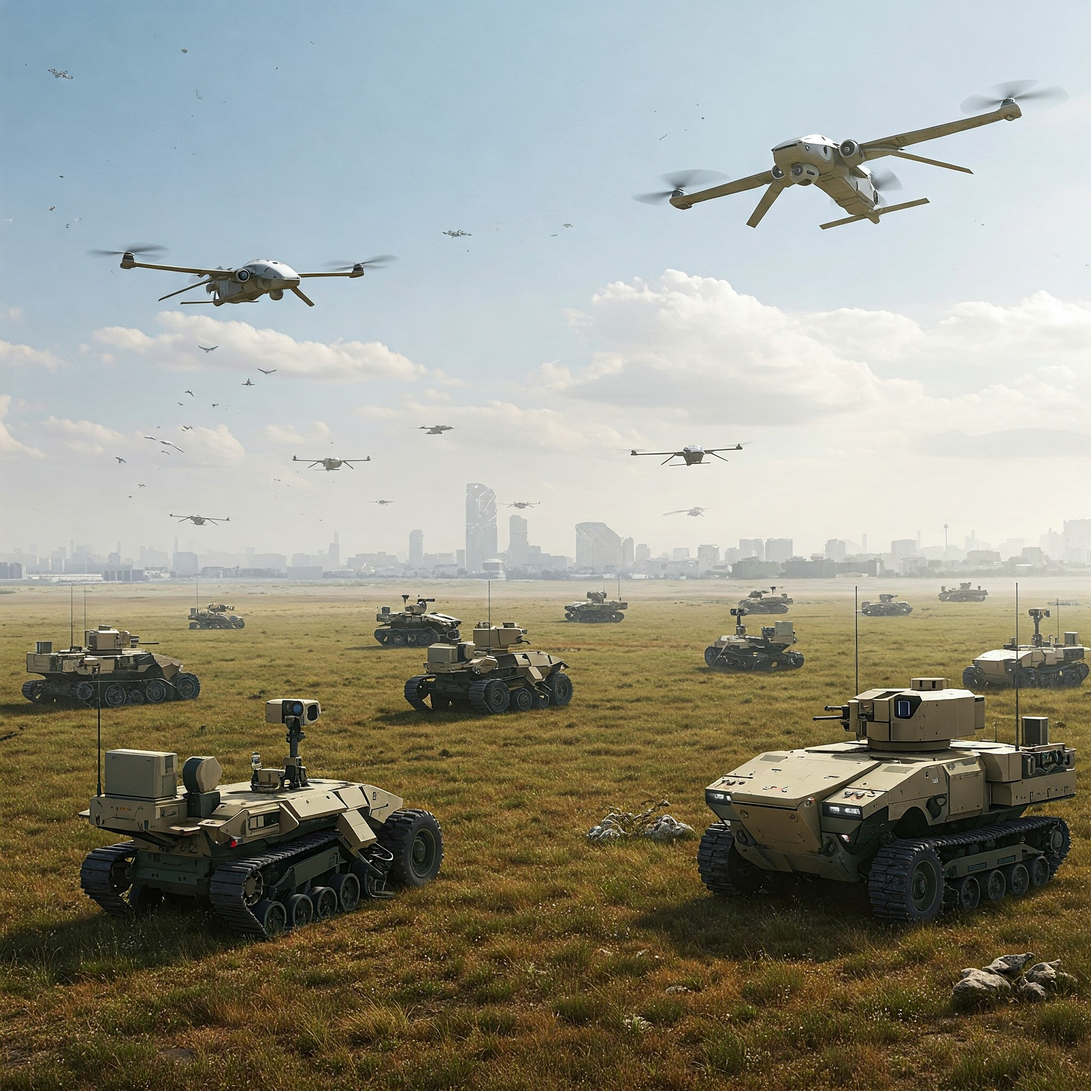
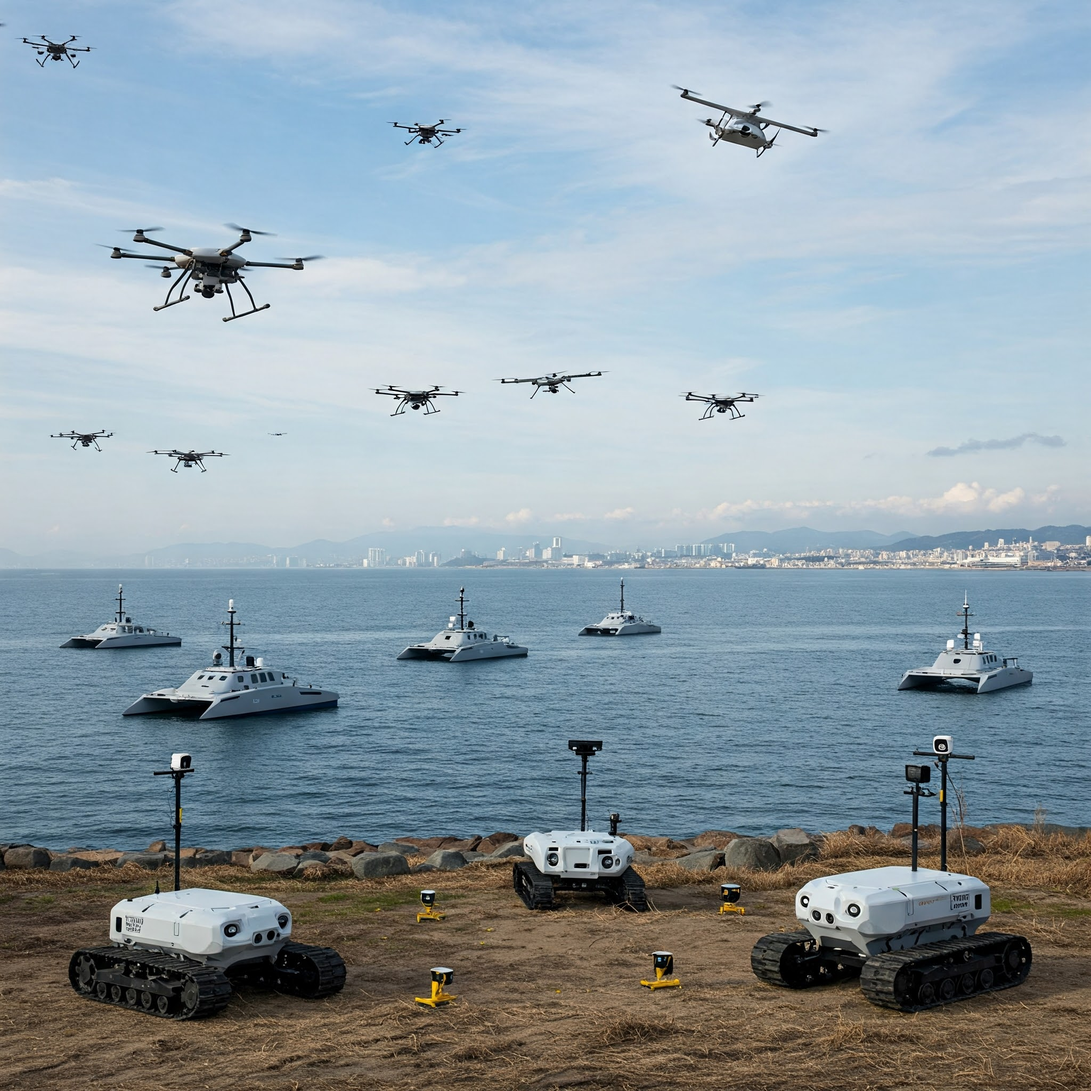
Update images

diff --git a/ormi-app/app/(auth)/signup/page.tsx b/ormi-app/app/(auth)/signup/page.tsx
@@ -54,7 +54,7 @@ export default function SignUpPage() {
                     }}
                 >
                     <Image
-                        src="/wallpaper/robots-field.jpeg"
+                        src="/wallpaper/air-sea-ground.jpeg"
                         fill
                         priority
                         alt="RAS Lab Wallpaper"
